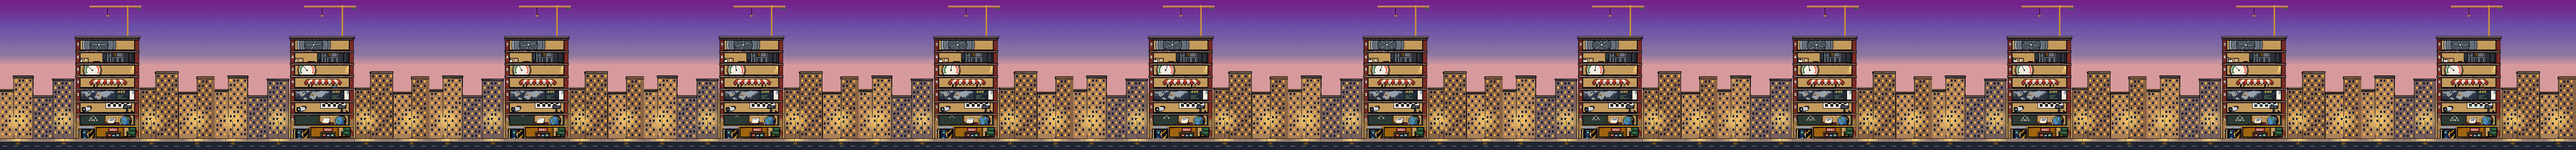
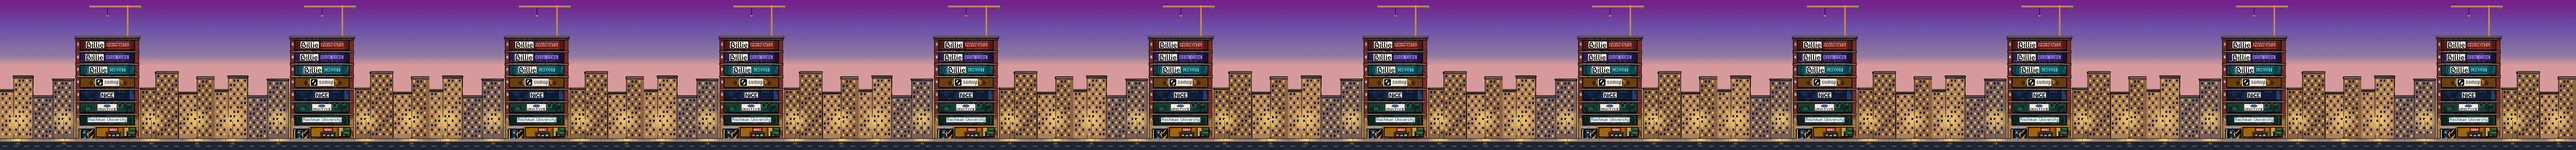
feat(art): light each floor's company sign in its street window
Floors 1-7 on the street view show the company's logo on a lit cream plaque
over the room dimmed to the floor's accent; Billie's three floors add a team
plate (CREDIT, RISK CORE, PAYMENTS). The logos are baked as ASCII rows in
gen_floors.LOGOS. The window keeps its 1:1 room slice, so the fly-in fades
the sign into the room.

On phones the street frames the tower at the largest whole device-pixel
scale between the top bar and the hero card. The lobby card's Latest writing
line moves up under the garage sign, clear of the Step inside bar.

diff --git a/web3d/src/pixel.js b/web3d/src/pixel.js
@@ -239,7 +239,8 @@ function drawDoors(ctx, img, f, x0, y0, s, open) {
   ctx.restore();
 }
 
-// The street view: the whole building at dusk (web3d/pixel/gen_exterior.py), its windows live crops of the rooms.
+// The street view: the whole building at dusk (web3d/pixel/gen_exterior.py), its windows live crops of the rooms,
+// 1-7 dimmed behind each floor's company sign.
 // Its windows are buttons laid over the canvas; the street left and right of the picture repeats its neighbours.
 function streetView(base, box, stops, loaded, then) {
   const view = { img: null, since: 0, size: [480, 336], windows: {}, top: SKY, bottom: '#2a2226', at: null };
@@ -285,21 +286,31 @@ function streetView(base, box, stops, loaded, then) {
   // dashes and joints run on across the seams (art columns 95|0 on the left, 479|408 on the right).
   const SIDE = [96, 72];
   const PAD = 4;     // art pixels around each window that still take its tap: half the gap to the next floor (#45)
-  let clear = 0, sized = '';   // CSS --street-top: the bottom of whatever sits over the top of the street, read per size
+  const TOWER = 160; // on phones, the art width kept in view: the tower (x 170-310) and a sliver of its neighbours
+  const hero = stops.find((s) => s.dataset.floor === 'E');
+  let clear = 0, card = 0, sized = '';   // CSS --street-top: the bottom of whatever sits over the top of the street; card: the phone's hero card top, read per size
   function layout(w, h, dpr, wide) {   // in device pixels, sized by the CSS height; the building centred beside the card, the street under it
     const [EW, EH] = view.size, W = w / dpr, H = h / dpr, rects = Object.values(view.windows);
+    if (!wide) {   // phones: only the tower, as big as whole device pixels allow between the top bar and the card; the roof may go under the bar
+      const floors = Object.entries(view.windows).filter(([k]) => k !== 'R').map(([, r]) => r);
+      const top = Math.min(...floors.map((r) => r[1])) - PAD, bottom = Math.max(...floors.map((r) => r[3])) + PAD;
+      const foot = card || H * 0.62, s = Math.max(Math.round(dpr), Math.floor(Math.min(w / TOWER, (foot - clear) * dpr / (bottom - top))));
+      // The road's foot on the card, or, where that leaves no room, the top window just under the bar.
+      return { s, x: Math.round(w / 2 - (EW / 2) * s), y: Math.round(Math.max(clear * dpr - top * s, foot * dpr - EH * s)) };
+    }
     const top = Math.min(...rects.map((r) => r[1])) - PAD, bottom = Math.max(...rects.map((r) => r[3])) + PAD;   // the roof's window, the ground floor's
     const fit = rects.length ? (H - clear) / (bottom - top) : Infinity;   // every window between the top bar and the bottom edge
-    const s = Math.round(dpr * Math.max(1, Math.floor(Math.min(fit, wide ? Math.min(H / EH, (W - 440) / 200) : Math.min(H * 0.62 / EH, W / 200)))));
-    const cx = (wide ? 440 + (W - 440) / 2 : W / 2) * dpr;
+    const s = Math.round(dpr * Math.max(1, Math.floor(Math.min(fit, H / EH, (W - 440) / 200))));
+    const cx = (440 + (W - 440) / 2) * dpr;
     // The street at the bottom; on a short screen it sinks until the top window is clear of the top bar.
-    return { s, x: Math.round(cx - (EW / 2) * s), y: Math.max(Math.round((wide ? h : h * 0.62) - EH * s), Math.round(clear * dpr) - top * s) };
+    return { s, x: Math.round(cx - (EW / 2) * s), y: Math.max(Math.round(h - EH * s), Math.round(clear * dpr) - top * s) };
   }
   return {
     alpha: (p, at) => (at < 0 ? 0 : clamp01(1 - Math.abs(p - at))),
-    // Flying in at a floor's window (t: 0 on the street, 1 in the room). Each window is a 1:1 slice of its room,
-    // so at any whole scale the two line up through it: the camera closes in on it in whole-pixel steps, then
-    // the window opens out over the room. null without the window: the plain dissolve.
+    // Flying in at a floor's window (t: 0 on the street, 1 in the room). Each window is a 1:1 slice of its room
+    // (on 1-7 dimmed behind the company's sign, which fades into the room), so at any whole scale the two line up
+    // through it: the camera closes in on it in whole-pixel steps, then the window opens out over the room. null
+    // without the window: the plain dissolve.
     fly(key, t, w, h, dpr, wide, room) {
       const win = view.windows[key], look = LOOK[key];
       if (!win || !look) return null;
@@ -325,7 +336,7 @@ function streetView(base, box, stops, loaded, then) {
     },
     draw(ctx, f, w, h, a, dpr, wide, cam) {   // cam: a flight's scale and place, else the street's own
       if (a <= 0) return;
-      if (sized !== `${w},${h}`) { sized = `${w},${h}`; clear = parseFloat(getComputedStyle(ctx.canvas).getPropertyValue('--street-top')) || 0; }
+      if (sized !== `${w},${h}`) { sized = `${w},${h}`; clear = parseFloat(getComputedStyle(ctx.canvas).getPropertyValue('--street-top')) || 0; card = hero ? parseFloat(getComputedStyle(hero).paddingTop) : 0; }
       const [EW, EH] = view.size, { s, x, y } = cam ?? layout(w, h, dpr, wide), src = f * EW, [L, R] = SIDE;
       ctx.globalAlpha = a;   // the sky and the road's flat colours, all there is until the picture arrives
       ctx.fillStyle = view.top; ctx.fillRect(0, 0, w, y + EH * s - s);
@@ -342,7 +353,10 @@ function streetView(base, box, stops, loaded, then) {
       view.at = at;
       for (const [b, [x0, y0, x1, y1]] of buttons) {
         const css = (v) => `${v / dpr}px`;
-        Object.assign(b.style, { left: css(x + (x0 - PAD) * s), top: css(y + (y0 - PAD) * s), width: css((x1 - x0 + 2 * PAD) * s), height: css((y1 - y0 + 2 * PAD) * s) });
+        // A window under the top bar (the roof, on phones) keeps only what shows below it, or goes.
+        const top = Math.max(y + (y0 - PAD) * s, clear * dpr), bottom = y + (y1 + PAD) * s;
+        b.hidden = bottom <= top;
+        Object.assign(b.style, { left: css(x + (x0 - PAD) * s), top: css(top), width: css((x1 - x0 + 2 * PAD) * s), height: css(bottom - top) });
       }
     },
   };

diff --git a/layouts/index.html b/layouts/index.html
@@ -180,8 +180,12 @@ if (/^(#(floor-e)?)?$/i.test(location.hash)) document.documentElement.classList.
     <section class="building-stop" id="floor-L" data-floor="L" aria-labelledby="fL">
       <article class="floor-card" style="--accent:{{ index $accent "L" }}">
         <header><span class="floor-badge">L</span><span class="floor-company">Lobby</span><span class="floor-when">{{ $home.about.kicker }}</span></header>
-        {{- /* The garage is off the ride up (guide.js): its sign is in the lobby. */}}
-        <p class="floor-end"><a href="#floor-P" data-goto="P">Down to the garage: projects ↓</a></p>
+        {{- /* The garage is off the ride up (guide.js): its sign is in the lobby. Under it, the blog's newsstand, drawn in
+             the lobby's painting: the newest post, its title up to any subtitle. */}}
+        <div class="floor-signs">
+          <p class="floor-end"><a href="#floor-P" data-goto="P">Down to the garage: projects ↓</a></p>
+          {{ with index $posts 0 }}<p class="floor-end">Latest writing: <a href="{{ .RelPermalink }}">{{ partial "nobreak.html" (index (split .Title ": ") 0) }}</a> · <a href="{{ "blog/" | relURL }}">All posts</a></p>{{ end }}
+        </div>
         {{ with resources.Get "images/showcase/showcase.jpg" }}{{ $photo := .Fill "160x160 Center webp" }}<img class="floor-portrait" src="{{ $photo.RelPermalink }}" width="80" height="80" alt="Portrait of Yonatan Karp-Rudin">{{ end }}
         <h2 id="fL" tabindex="-1">{{ $home.testimonials.title }}</h2>
         <ul class="floor-quotes">
@@ -189,8 +193,6 @@ if (/^(#(floor-e)?)?$/i.test(location.hash)) document.documentElement.classList.
           <li><q>{{ strings.TrimSuffix "." .Params.pullQuote }}</q> <cite>{{ .Params.name }}, {{ .Params.position }}</cite></li>
           {{ end }}
         </ul>
-        {{- /* The blog's newsstand, drawn in the lobby's painting: the newest post, its title up to any subtitle. */}}
-        {{ with index $posts 0 }}<p class="floor-end">Latest writing: <a href="{{ .RelPermalink }}">{{ partial "nobreak.html" (index (split .Title ": ") 0) }}</a> · <a href="{{ "blog/" | relURL }}">All posts</a></p>{{ end }}
         {{ with $skills }}<p class="floor-skills">Stack: {{ delimit .Params.working_set ", " }}</p>{{ end }}
         <div class="step-in-bar"><button class="step-in" type="button" aria-controls="panel-L" aria-expanded="false">Step inside</button></div>
       </article>

diff --git a/web3d/src/pixel.css b/web3d/src/pixel.css
@@ -408,7 +408,8 @@ html:not(.building--guided) .pixel .building-stops { padding-top: 56px; }   /* c
 }
 /* P says it is the bottom of the line; the lobby signs the way down to it. */
 .pixel .floor-end { margin: 16px 0 0; padding: 10px 14px; font-size: 15px; color: var(--text-soft); background: #10131b; box-shadow: inset 0 0 0 4px var(--ink); }
-.pixel header + .floor-end { margin: 12px 0 16px; padding: 6px 14px; }   /* the lobby's sign, kept small above the title */
+.pixel .floor-signs { display: grid; gap: 8px; margin: 12px 0 16px; }   /* the lobby's signs, kept small above the title, */
+.pixel .floor-signs .floor-end { margin: 0; padding: 6px 14px; }        /* where the step-in bar cannot cover them */
 @media (max-width: 760px), (max-aspect-ratio: 6/5) {   /* the street leaves the card ~38svh: keep the how-to, the title and the way to get in touch in view */
   .pixel .building-stop--hero .floor-eyebrow, .pixel .building-stop--hero .floor-lead { display: none; }
   .pixel .floor-how { margin-bottom: 8px; padding-bottom: 0; border-bottom: 0; font-size: 13px; line-height: 20px; }

diff --git a/web3d/pixel/gen_floors.py b/web3d/pixel/gen_floors.py
@@ -66,6 +66,105 @@ FONT = {  # 3x5 glyphs for the lift display
     "P": ["##.", "#.#", "##.", "#..", "#.."],
 }
 
+# --- Company signs: each storey's logo on a cream plaque, lit in its street window (gen_exterior.lit_sign) ---------
+# Traced from the companies' own artwork, box-filtered to the plaque's height and cleaned by hand (baked like FONT):
+# Inuitive, inuitive-tech.com's 2017 logo; NiCE, nice.com's header; SumUp, Wikimedia Commons File:SumUp Logo.svg;
+# Billie, billie.io's header; Reichman University, en.wikipedia File:Reichman University.svg (its wordmark lettered at
+# this size, without the arc of stars, which reads as dots).
+# 'k' is INK, 'b' the brand's blue, 'B' its lit top, 'd' its shade, '.' the plaque.
+LOGOS = {
+    "reichman": [
+        "bbbb.............b........................b...b.....................................",
+        "b...b......b.....b........................b...b......b....................b..b......",
+        "b...b..bb.....bb.bbb..bbbb...bb..bbb......b...b.bbb....b...b..bb..b.b..bb...bbb.b..b",
+        "bbbb..b..b.b.b...b..b.b.b.b....b.b..b.....b...b.b..b.b.b...b.b..b.bb..b...b..b..b..b",
+        "b.b...bbbb.b.b...b..b.b.b.b..bbb.b..b.....b...b.b..b.b..b.b..bbbb.b....b..b..b..b..b",
+        "b..b..b....b.b...b..b.b.b.b.b..b.b..b.....b...b.b..b.b..b.b..b....b.....b.b..b...bbb",
+        "b...b..bbb.b..bb.b..b.b.b.b..bbb.b..b......bbb..b..b.b...b....bbb.b...bb..b...b....b",
+        "................................................................................b..b",
+        ".................................................................................bb.",
+    ],
+    "inuitive": [
+        "...............bBBBBBBBb...............",
+        ".............bbbbbbbbbbbbb.............",
+        "............bbbbbbbbbbbbbbb............",
+        "...........bbbbbbbbbbbbbbbbd...........",
+        "............bbbbbbbbbbbbbbd............",
+        "..............ddddddddddd..............",
+        ".......................................",
+        ".......................................",
+        "k..k..k..k..k..k..kkkkk..k..k...k..kkkk",
+        "k..kk.k..k..k..k....k....k..k...k..k...",
+        "k..k.kk..k..k..k....k....k...k.k...kkk.",
+        "k..k..k..k..k..k....k....k...k.k...k...",
+        "k..k..k...kk...k....k....k....k....kkkk",
+    ],
+    "nice": [
+        ".........BB...............",
+        "kkk...kk.Bb...kkkk..kkkkkk",
+        "kkk...kk.....kkkkkk.kkkkkk",
+        "kkkk..kk.kk.kkk..kk.kk....",
+        "kk.k..kk.kk.kk......kk....",
+        "kk.kk.kk.kk.kk......kkkkk.",
+        "kk..k.kk.kk.kk......kk....",
+        "kk..kkkk.kk.kkk..kk.kk....",
+        "kk...kkk.kk..kkkkkk.kkkkkk",
+        "kk...kkk.kk...kkkk..kkkkkk",
+    ],
+    "sumup": [
+        ".kkkkkkkkkkkkk....................................",
+        "kkkkkkkkkkkkkkk...................................",
+        "kkkkkk..kkkkkkk...................................",
+        "kkkk....kkkkkkk...................................",
+        "kkkk...kkkkkkkk.....kk...k..k...kk.kk...k..k...kk.",
+        "kkk...kkkkkkkkk....k..k..k..k..k..k..k..k..k..k..k",
+        "kkk...kkkkkkkkk....k.....k..k..k..k..k..k..k..k..k",
+        "kkkk.kkkkk.kkkk.....kk...k..k..k..k..k..k..k..k..k",
+        "kkkkkkkkk...kkk.......k..k..k..k..k..k..k..k..k..k",
+        "kkkkkkkkk...kkk....k..k..k..k..k..k..k..k..k..k..k",
+        "kkkkkkkk...kkkk.....kk....kk...k..k..k...kk...kkk.",
+        "kkkkkkk....kkkk...............................k...",
+        "kkkkkkk..kkkkkk...............................k...",
+        "kkkkkkkkkkkkkkk...............................k...",
+        ".kkkkkkkkkkkkk....................................",
+    ],
+    "billie": [
+        "..kkkk......kk..kk...kk...kk.........",
+        ".kkkkkk.....kk..kk...kk...kk.........",
+        "kkk..kkk........kk...kk..............",
+        "kk....kk........kk...kk..............",
+        "kk....kk....kk..kk...kk...kk....kkk..",
+        "kkkkkkkk....kk..kk...kk...kk...kk.kk.",
+        "kk....kkkk..kk..kk...kk...kk..kk...kk",
+        "kk...k..kk..kk..kk...kk...kk..kk...kk",
+        "kk..k...kk..kk..kk...kk...kk..kkkkkkk",
+        "kk.k....kk..kk..kk...kk...kk..kk.....",
+        "kkk.....kk..kk..kk...kk...kk..kk.....",
+        "kkkkkkkkk...kk..kkk..kkk..kk...kkkkkk",
+        "kkkkkkkk....kk...kkk..kkk.kk....kkkk.",
+    ],
+}
+LETTERS = {  # 5x7 caps for the team plates
+    "A": [".###.", "#...#", "#...#", "#####", "#...#", "#...#", "#...#"],
+    "C": [".###.", "#...#", "#....", "#....", "#....", "#...#", ".###."],
+    "D": ["####.", "#...#", "#...#", "#...#", "#...#", "#...#", "####."],
+    "E": ["####", "#...", "#...", "###.", "#...", "#...", "####"],
+    "I": ["###", ".#.", ".#.", ".#.", ".#.", ".#.", "###"],
+    "K": ["#...#", "#..#.", "#.#..", "##...", "#.#..", "#..#.", "#...#"],
+    "M": ["#...#", "##.##", "#.#.#", "#.#.#", "#...#", "#...#", "#...#"],
+    "N": ["#...#", "##..#", "##..#", "#.#.#", "#..##", "#..##", "#...#"],
+    "O": [".###.", "#...#", "#...#", "#...#", "#...#", "#...#", ".###."],
+    "P": ["####.", "#...#", "#...#", "####.", "#....", "#....", "#...."],
+    "R": ["####.", "#...#", "#...#", "####.", "#.#..", "#..#.", "#...#"],
+    "S": [".###.", "#...#", "#....", ".###.", "....#", "#...#", ".###."],
+    "T": ["#####", "..#..", "..#..", "..#..", "..#..", "..#..", "..#.."],
+    "Y": ["#...#", "#...#", ".#.#.", "..#..", "..#..", "..#..", "..#.."],
+    " ": ["..", "..", "..", "..", "..", "..", ".."],
+}
+# key: (logo, its team's plate or None). Billie's three floors share its logo, so each names its team in the floor's accent.
+SIGNS = {"1": ("reichman", None), "2": ("inuitive", None), "3": ("nice", None), "4": ("sumup", None),
+         "5": ("billie", "CREDIT"), "6": ("billie", "RISK CORE"), "7": ("billie", "PAYMENTS")}
+
 
 def c(name, i):
     return R[name][i]
@@ -269,6 +368,38 @@ def margins(img, key):
             q[i, y] = (*edge_px(get, band_at(left, y), LOBBY_X - EDGE + i, y), 255)
             q[EDGE + i, y] = (*edge_px(get, band_at(right, y), W - 8 + i, y), 255)
     return out
+
+
+def panel(cv, x, y, w, h, face, shade):
+    """An inked board, lit from above: its bottom row in shade."""
+    cv.rect(x, y, x + w, y + h, INK)
+    cv.rect(x + 1, y + 1, x + w - 1, y + h - 1, face)
+    cv.rect(x + 1, y + h - 2, x + w - 1, y + h - 1, shade)
+
+
+def sign(cv, key, x, y):
+    """A floor's sign with its top-left at (x, y): the logo's plaque, and its team's plate beside it in the floor's
+    accent. Returns its box (x0, y0, x1, y1)."""
+    logo, team = SIGNS[key]
+    rows, accent = LOGOS[logo], FLOORS[key][1]
+    w, h = len(rows[0]) + 6, len(rows) + 4
+    panel(cv, x, y, w, h, c("cream", 5), c("cream", 4))
+    ink = {"k": INK, "b": c("blue", 3), "B": c("blue", 4), "d": c("blue", 2)}
+    for dy, row in enumerate(rows):
+        for dx, ch in enumerate(row):
+            if ch in ink:
+                cv.put(x + 3 + dx, y + 2 + dy, ink[ch])
+    if not team:
+        return x, y, x + w, y + h
+    word = ["".join(("." if i else "") + LETTERS[ch][r] for i, ch in enumerate(team)) for r in range(7)]
+    px, py, pw = x + w + 3, y + (h - 11) // 2, len(word[0]) + 6
+    panel(cv, px, py, pw, 11, c(accent, 4), c(accent, 3))
+    cv.rect(px + 1, py + 1, px + pw - 1, py + 2, c(accent, 5))                # its lit top row
+    for dy, row in enumerate(word):
+        for dx, ch in enumerate(row):
+            if ch == "#":
+                cv.put(px + 3 + dx, py + 2 + dy, INK)
+    return x, y, px + pw, y + h
 
 
 def frame_base(key, room_name, accent):

diff --git a/web3d/pixel/gen_exterior.py b/web3d/pixel/gen_exterior.py
@@ -1,7 +1,7 @@
 # /// script
 # dependencies = ["pillow==12.1.0", "numpy==2.3.4"]   # numpy: pixelate
 # ///
-"""The street view: the whole building at dusk, its windows showing the live rooms. The landing view.
+"""The street view: the whole building at dusk, its windows lit with each floor's company sign. The landing view.
 
 Run: uv run web3d/pixel/gen_exterior.py blockout            # the code blockout, for a look
      uv run web3d/pixel/gen_exterior.py paint [--count N]   # Draw Things repaints the blockout (port 7860)
@@ -11,7 +11,8 @@ Run: uv run web3d/pixel/gen_exterior.py blockout            # the code blockout,
 The blockout fixes what the model must not move: the number of storeys, the window grid, the entrance, the garage
 and the crane. The model repaints it into the rooms' style; the picked painting is pixelated with the floors'
 palette and colour match, then the blockout's windows are pasted back and filled with 1:1 crops of each floor's
-strip, frame by frame, so the street view animates in step with the floors. Build the floors first.
+strip, frame by frame, so the street view animates in step with the floors: floors 1-7 dimmed behind their company's
+lit sign (G.SIGNS), the lobby and the garage as they are. Build the floors first.
 """
 import argparse
 import base64
@@ -41,7 +42,8 @@ c, INK = G.c, G.INK
 GLOW_WIN = G.GLOW["amber"]
 
 # Where each window looks into its floor's strip (x, y of the slice's top-left, in strip pixels): the room's
-# signature props. The window's size decides the slice's size.
+# signature props, dimmed behind the sign on 1-7, so flying in, the sign fades into the room. The window's size
+# decides the slice's size.
 LOOK = {"1": (322, 76), "2": (328, 82), "3": (266, 56), "4": (250, 64), "5": (222, 54), "6": (230, 96),
         "7": (205, 86), "R": (0, 0), "L": (246, 122), "P": (166, 78)}
 NEIGHBOURS = ((0, 30, 200), (30, 74, 170), (74, 118, 214), (118, 166, 176),
@@ -230,6 +232,29 @@ def street(tower=True):
     return art
 
 
+def lit_sign(room, key):
+    """A storey's window at dusk: its room dimmed to the floor's accent, and the company's sign lit in front of it,
+    its light spilling a few pixels onto the room."""
+    accent, ww, wh = G.FLOORS[key][1], room.width, room.height
+    sign = Image.new("RGBA", (ww, wh), (0, 0, 0, 0))
+    probe = G.sign(G.Layer(Image.new("RGBA", (ww, wh))), key, 0, 0)       # its size, to centre it
+    x, y = (ww - probe[2]) // 2, (wh - probe[3]) // 2
+    x0, y0, x1, y1 = G.sign(G.Layer(sign), key, x, y)
+    out, px, sp = room.copy(), room.load(), sign.load()
+    q = out.load()
+    for j in range(wh):
+        for i in range(ww):
+            if sp[i, j][3]:
+                q[i, j] = sp[i, j][:3]
+                continue
+            r, g, b = px[i, j]
+            lv = 0 if r * 3 + g * 6 + b < 900 else 1 if r * 3 + g * 6 + b < 1700 else 2
+            d = max(x0 - i, i - x1 + 1, y0 - j, j - y1 + 1)                  # how far outside the sign
+            lv += d <= 3 and G.BAYER[j % 4][i % 4] < 16 - 4 * d
+            q[i, j] = c(accent, lv)
+    return out
+
+
 def build(out):
     art = street()
     wins = windows()
@@ -244,7 +269,8 @@ def build(out):
             if key == "R":
                 continue
             sx, sy = LOOK[key]
-            img.paste(floors[key].crop((f * G.W + sx, sy, f * G.W + sx + x1 - x0, sy + y1 - y0)), (x0, y0))
+            room = floors[key].crop((f * G.W + sx, sy, f * G.W + sx + x1 - x0, sy + y1 - y0))
+            img.paste(lit_sign(room, key) if key in G.SIGNS else room, (x0, y0))
         strip.paste(img, (f * EW, 0))
     strip.save(out / "exterior.png")
     (out / "exterior.json").write_text(json.dumps({"size": [EW, EH], "windows": wins}))
